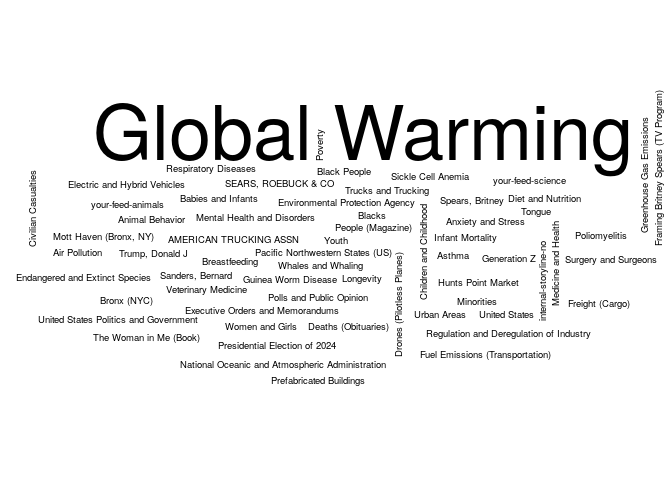
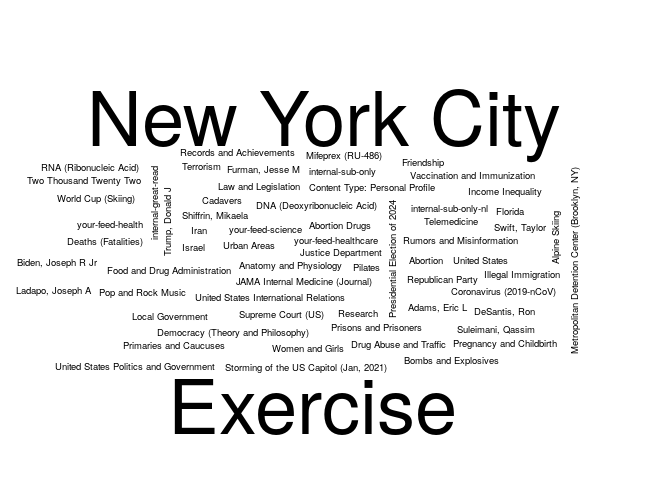
Updating the NYT report

Changed region(s): [[0.0312, 0.1875, 1.0, 0.9062], [0.375, 0.1875, 0.4062, 0.2188]]

diff --git a/03-nytimes/README.md b/03-nytimes/README.md
@@ -5,7 +5,7 @@ The following is an example of how to use the [NYTimes
 API](https://developer.nytimes.com/) to get a list of articles related
 to a particular term. Here we are searching articles that include the
 term `"health"`, and that were published up to seven days ago since
-2024-01-01.
+2024-01-08.
 
 ``` r
 # Preparing a function to use the GET method with the NYTimes API
@@ -83,25 +83,25 @@ colnames(tab) <- c("Keyword", "# Articles")
 knitr::kable(tab, row.names = FALSE)
 ```
 
-| Keyword                      | \# Articles |
-|:-----------------------------|------------:|
-| Biden, Joseph R Jr           |          10 |
-| Content Type: Service        |          10 |
-| Global Warming               |          10 |
-| Two Thousand Twenty Three    |          10 |
-| Air Pollution                |           5 |
-| AMERICAN TRUCKING ASSN       |           5 |
-| Animal Behavior              |           5 |
-| Anxiety and Stress           |           5 |
-| Asthma                       |           5 |
-| Babies and Infants           |           5 |
-| Black People                 |           5 |
-| Blacks                       |           5 |
-| Breastfeeding                |           5 |
-| Bronx (NYC)                  |           5 |
-| Children and Childhood       |           5 |
-| Civilian Casualties          |           5 |
-| Deaths (Obituaries)          |           5 |
-| Diet and Nutrition           |           5 |
-| Drones (Pilotless Planes)    |           5 |
-| Electric and Hybrid Vehicles |           5 |
+| Keyword                           | \# Articles |
+|:----------------------------------|------------:|
+| Content Type: Service             |          10 |
+| Exercise                          |          10 |
+| New York City                     |          10 |
+| Abortion                          |           5 |
+| Abortion Drugs                    |           5 |
+| Adams, Eric L                     |           5 |
+| Alpine Skiing                     |           5 |
+| Anatomy and Physiology            |           5 |
+| Biden, Joseph R Jr                |           5 |
+| Bombs and Explosives              |           5 |
+| Cadavers                          |           5 |
+| Content Type: Personal Profile    |           5 |
+| Coronavirus (2019-nCoV)           |           5 |
+| Deaths (Fatalities)               |           5 |
+| Democracy (Theory and Philosophy) |           5 |
+| DeSantis, Ron                     |           5 |
+| DNA (Deoxyribonucleic Acid)       |           5 |
+| Drug Abuse and Traffic            |           5 |
+| Florida                           |           5 |
+| Food and Drug Administration      |           5 |
